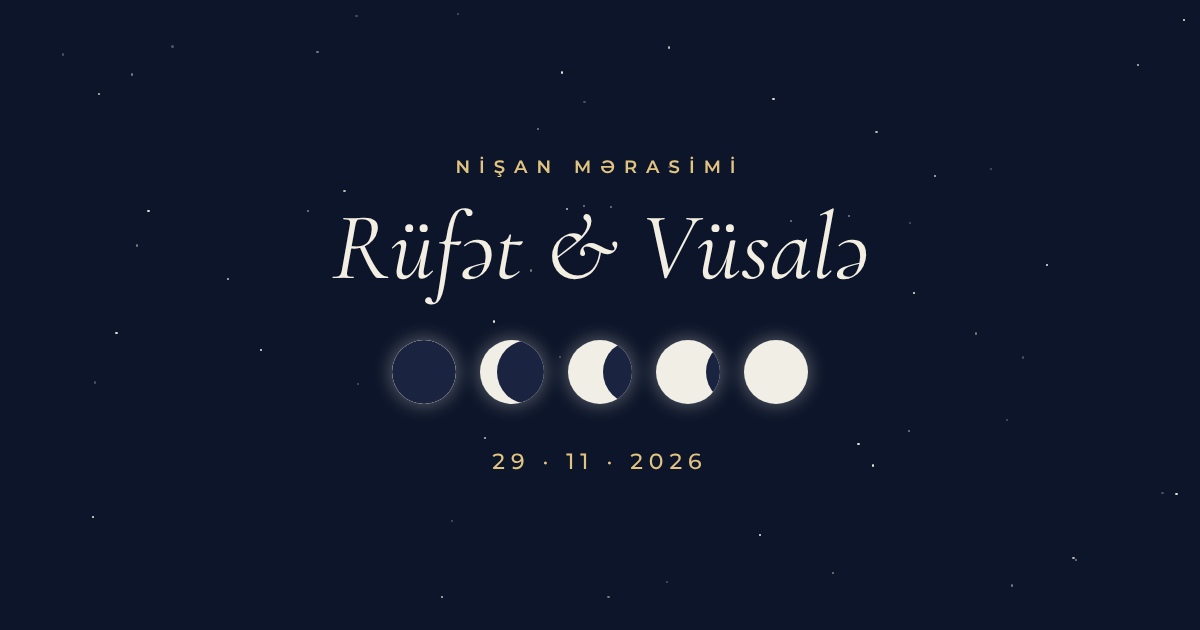
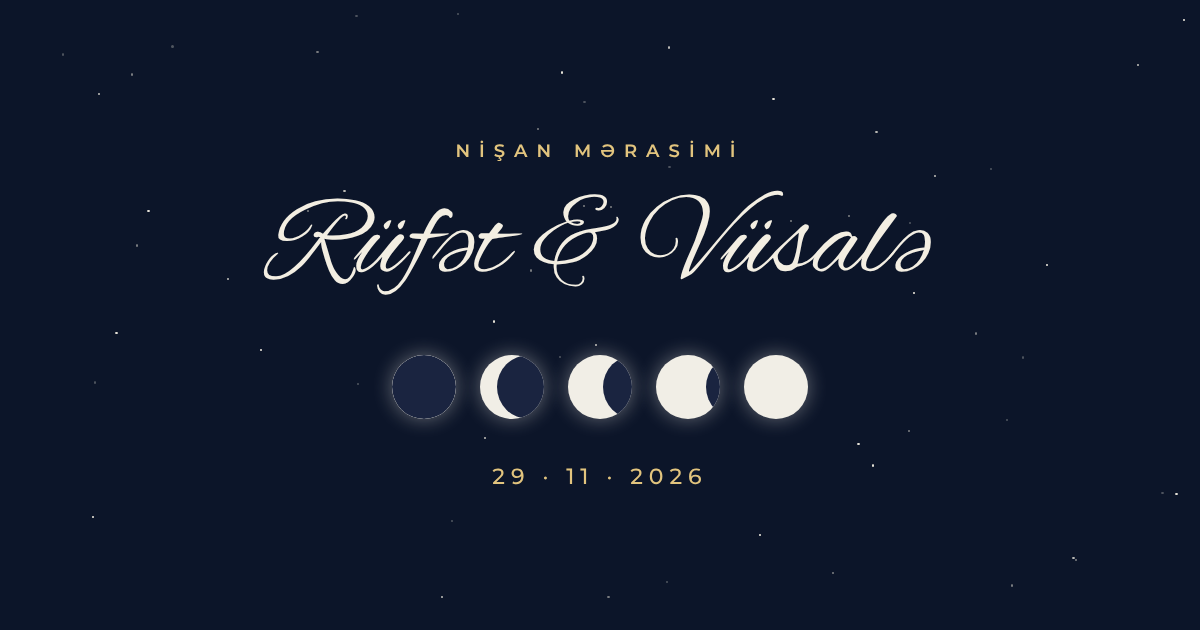
Change

diff --git a/rufat2/style.css b/rufat2/style.css
@@ -1,0 +1,59 @@
+/* VOICE: formal, tender, quiet night
+   IDEA: the moon's phases completing into a full moon
+   PICTURE: five silver moon phases on a starry navy sky
+   COLOUR and TYPE: navy #0C1529, gold #E2C47E, ivory; Cormorant + Montserrat
+   LAYOUT: one centred phone-width column; gate screen, then scrolling sections */
+:root{color-scheme:dark;--bg:#0C1529;--ink:#F3EEE2;--gold:#E2C47E;--soft:#DCD4C2;--mute:#C9C1AF;--line:rgba(226,196,126,.55)}
+*{box-sizing:border-box;min-width:0}
+html,body{margin:0;height:100%}
+body{background:var(--bg);color:var(--ink);font:18px/1.5 'Cormorant Garamond',Georgia,serif;overflow:hidden}
+.sans{font-family:Montserrat,system-ui,sans-serif}
+.sky{position:fixed;inset:0;pointer-events:none}
+.star{position:absolute;border-radius:50%;background:var(--ink);animation:tw 3s ease-in-out infinite}
+@keyframes tw{0%,100%{opacity:.2}50%{opacity:1}}
+.moon{filter:drop-shadow(0 0 14px rgba(241,238,230,.45))}
+.gate{position:fixed;inset:0;z-index:5;display:flex;flex-direction:column;align-items:center;justify-content:center;text-align:center;padding:24px;transition:opacity .4s ease,visibility 0s}
+.gate.open{opacity:0;visibility:hidden;transition:opacity 2s ease 2.6s,visibility 0s linear 4.6s}
+.eyebrow{margin:0;font-size:11px;font-weight:600;letter-spacing:5px;color:var(--gold)}
+.row{display:flex;gap:16px;margin-top:50px;transition:transform .3s ease,opacity .3s ease}
+.ph{position:relative;display:block;width:44px;height:44px;border-radius:50%;background:#F1EEE6;overflow:hidden;box-shadow:0 0 14px rgba(241,238,230,.35)}
+.sh{position:absolute;top:0;width:44px;height:44px;border-radius:50%;background:#1A2440;transition:left .3s ease}
+.gate.open .sh{left:48px!important;transition:left 1.4s ease}
+.gate.open .row{transform:scale(1.3);opacity:0;transition:transform 2s ease 1.6s,opacity 1.6s ease 2s}
+.fade{transition:opacity .3s ease}
+.gate.open .fade{opacity:0;transition:opacity 1s ease}
+.btn{margin-top:60px;min-height:48px;padding:0 30px;border:1px solid var(--gold);border-radius:24px;background:transparent;color:var(--ink);font:500 13px Montserrat,sans-serif;letter-spacing:2px;cursor:pointer;animation:gl 2.4s ease-in-out infinite}
+.btn:focus-visible,.link:focus-visible{outline:2px solid var(--ink);outline-offset:3px}
+@keyframes gl{0%,100%{box-shadow:0 0 0 0 rgba(226,196,126,0)}50%{box-shadow:0 0 0 8px rgba(226,196,126,.18)}}
+.page{position:fixed;inset:0;overflow-y:auto;display:none}
+.page.show{display:block;animation:in 2s ease 2.8s both}
+@keyframes in{from{opacity:0}to{opacity:1}}
+.page .rv{animation:up 2s ease both}
+@keyframes up{from{opacity:0;transform:translateY(30px);filter:blur(4px)}to{opacity:1;transform:none;filter:none}}
+.wrap{max-width:440px;margin:0 auto}
+section{padding:36px 28px;text-align:center}
+.hero{padding-top:56px;display:flex;flex-direction:column;align-items:center}
+h1{margin:0;font-weight:400;font-style:italic;font-size:66px;line-height:1}
+.amp{margin:2px 0;font-style:italic;font-size:30px;color:var(--gold)}
+.date{margin-top:34px;width:100%;display:grid;grid-template-columns:repeat(3,minmax(0,1fr));align-items:center;border-top:1px solid var(--line);border-bottom:1px solid var(--line);padding:18px 0}
+.date p{margin:0}
+.date .k{font-size:9px;font-weight:600;letter-spacing:3px;color:var(--gold)}
+.date .v{margin-top:8px;font-size:22px}
+.date .mid{border-left:1px solid rgba(226,196,126,.4);border-right:1px solid rgba(226,196,126,.4)}
+.date .big{margin-top:4px;font-size:52px;font-weight:500;line-height:1;color:var(--gold)}
+.date .yr{margin-top:6px;font-size:10px;letter-spacing:3px;color:var(--mute)}
+.lead{margin:30px 0 0;font-size:20px;color:var(--soft)}
+h2{margin:0;font-weight:400;font-style:italic;font-size:28px}
+.box{margin:0 20px;padding:28px 18px;border:1px solid rgba(226,196,126,.5);border-radius:16px;text-align:center}
+.cd{margin-top:18px;display:grid;grid-template-columns:repeat(4,minmax(0,1fr));gap:8px}
+.cd p{margin:0}.cd .n{font-size:38px;font-weight:500;line-height:1;color:var(--gold);font-variant-numeric:tabular-nums}
+.cd .l{margin-top:6px;font-size:10px;letter-spacing:1px;color:var(--mute)}
+.prog{margin-top:22px;display:flex;flex-direction:column;gap:14px;text-align:left}
+.prog div{display:flex;align-items:baseline;gap:16px;padding-bottom:12px;border-bottom:1px solid rgba(243,238,226,.15)}
+.prog span:first-child{width:56px;flex:none;font-size:13px;font-weight:600;color:var(--gold);white-space:nowrap}
+.prog span:last-child{font-size:21px;line-height:1.2}
+.venue{display:flex;flex-direction:column;align-items:center;gap:8px}
+.venue p{margin:0}
+.link{margin-top:12px;display:inline-flex;align-items:center;justify-content:center;min-height:44px;padding:0 26px;border-radius:22px;border:1px solid var(--gold);color:var(--gold);text-decoration:none;font-size:13px;letter-spacing:1px}
+.replay{margin-top:22px;min-height:44px;padding:0 18px;border:0;background:none;color:var(--mute);font:12px Montserrat,sans-serif;letter-spacing:1px;cursor:pointer}
+@media(prefers-reduced-motion:reduce){*,*::before,*::after{animation:none!important;transition:none!important}}

diff --git a/rufat2/index.html b/rufat2/index.html
@@ -1,0 +1,81 @@
+<!DOCTYPE html>
+<html lang="az">
+<head>
+<meta charset="utf-8">
+<meta name="viewport" content="width=device-width, initial-scale=1">
+<title>Rüfət &amp; Vüsalə — Nişan</title>
+<link rel="preconnect" href="https://fonts.googleapis.com">
+<link href="https://fonts.googleapis.com/css2?family=Cormorant+Garamond:ital,wght@0,400;0,500;0,600;1,400;1,500&family=Montserrat:wght@400;500;600&display=swap" rel="stylesheet">
+<meta name="description" content="Rüfət və Vüsalənin nişan mərasiminə dəvət — 29 noyabr 2026, Ay İşığı restoranı">
+<meta property="og:type" content="website">
+<meta property="og:url" content="https://vusala.az/rufat/">
+<meta property="og:title" content="Rüfət &amp; Vüsalə — Nişan dəvətnaməsi">
+<meta property="og:description" content="29 noyabr 2026 · Bazar · 18:00 · “Ay İşığı” restoranı, 4B zalı">
+<meta property="og:image" content="https://vusala.az/rufat/og.png">
+<meta property="og:image:width" content="1200">
+<meta property="og:image:height" content="630">
+<meta name="twitter:card" content="summary_large_image">
+<meta name="theme-color" content="#0C1529">
+<link rel="stylesheet" href="style.css">
+</head>
+<body>
+<div class="sky" id="sky" aria-hidden="true"></div>
+
+<main class="page" id="page">
+ <div class="wrap">
+  <section class="hero rv" style="animation-delay:3s">
+    <svg role="img" aria-label="Bədirlənmiş ay" width="70" height="70" viewBox="0 0 100 100" class="moon"><circle cx="50" cy="50" r="48" fill="#F1EEE6"/><circle cx="34" cy="38" r="9" fill="#E3DED2"/><circle cx="62" cy="30" r="5" fill="#E3DED2"/><circle cx="64" cy="62" r="11" fill="#E3DED2"/><circle cx="38" cy="70" r="5" fill="#E3DED2"/></svg>
+    <p class="eyebrow sans" style="margin-top:26px">NİŞAN MƏRASİMİ</p>
+    <h1 style="margin-top:24px">Rüfət</h1>
+    <p class="amp">&amp;</p>
+    <h1>Vüsalə</h1>
+    <div class="date sans">
+      <div><p class="k">GÜN</p><p class="v" style="font-family:'Montserrat',serif">Bazar</p></div>
+      <div class="mid"><p class="k">NOYABR</p><p class="big" style="font-family:'Cormorant Garamond',serif">29</p><p class="yr">2026</p></div>
+      <div><p class="k">SAAT</p><p class="v" style="font-family:'Montserrat',serif">18:00</p></div>
+    </div>
+    <p class="lead">Həyatımızın bu özəl və unudulmaz günündə sevincimizi bölüşmək, xoşbəxtliyimizə şərik olmaq üçün Sizi nişan mərasimimizdə aramızda görməkdən məmnun olarıq.</p>
+  </section>
+
+  <div class="box rv" style="animation-delay:3.6s">
+    <h2>Nişanımıza qalan müddət</h2>
+    <div class="cd sans">
+      <div><p class="n" id="cd-d">0</p><p class="l">GÜN</p></div>
+      <div><p class="n" id="cd-h">00</p><p class="l">SAAT</p></div>
+      <div><p class="n" id="cd-m">00</p><p class="l">DƏQİQƏ</p></div>
+      <div><p class="n" id="cd-s">00</p><p class="l">SANİYƏ</p></div>
+    </div>
+  </div>
+
+  <section class="rv" style="animation-delay:4.2s;padding-top:44px">
+    <h2>Günün proqramı</h2>
+    <div class="prog" id="prog"></div>
+  </section>
+
+  <section class="venue rv" style="animation-delay:4.6s">
+    <p class="eyebrow sans">MƏKAN</p>
+    <p style="font-style:italic;font-size:32px">“Ay İşığı” restoranı</p>
+    <p class="sans" style="font-size:13px;font-weight:600;letter-spacing:2px">4B ZALI</p>
+    <p class="sans" style="font-size:13px;color:var(--mute)">Mikayıl Əliyev 51, Nizami</p>
+    <a class="link sans" href="https://www.google.com/maps/search/?api=1&query=Mikay%C4%B1l+%C6%8Fliyev+51%2C+Bak%C4%B1" target="_blank" rel="noopener">Xəritədə aç</a>
+  </section>
+
+  <section class="rv" style="animation-delay:5s;padding-bottom:60px;display:flex;flex-direction:column;align-items:center">
+    <svg role="img" aria-label="Bədirlənmiş ay" width="40" height="40" viewBox="0 0 100 100" class="moon"><circle cx="50" cy="50" r="48" fill="#F1EEE6"/><circle cx="34" cy="38" r="9" fill="#E3DED2"/><circle cx="62" cy="30" r="5" fill="#E3DED2"/><circle cx="64" cy="62" r="11" fill="#E3DED2"/><circle cx="38" cy="70" r="5" fill="#E3DED2"/></svg>
+    <p style="margin:16px 0 0;font-size:20px;color:var(--soft)">Sizi görməyə şad olarıq</p>
+    <p style="margin:8px 0 0;font-style:italic;font-size:34px;color:var(--gold)">Rüfət &amp; Vüsalə</p>
+    <button class="replay" id="replay" type="button">↺ Yenidən bax</button>
+  </section>
+ </div>
+</main>
+
+<div class="gate" id="gate">
+  <p class="eyebrow sans fade">NİŞAN MƏRASİMİ</p>
+  <p class="fade" style="margin:14px 0 0;font-style:italic;font-size:42px">Rüfət &amp; Vüsalə</p>
+  <div class="row" aria-hidden="true" id="row"></div>
+  <button class="btn fade" id="open" type="button">DƏVƏTNAMƏNİ AÇ</button>
+</div>
+
+<script src="script.js"></script>
+</body>
+</html>

diff --git a/rufat/index.html b/rufat/index.html
@@ -5,7 +5,7 @@
 <meta name="viewport" content="width=device-width, initial-scale=1">
 <title>Rüfət &amp; Vüsalə — Nişan</title>
 <link rel="preconnect" href="https://fonts.googleapis.com">
-<link href="https://fonts.googleapis.com/css2?family=Cormorant+Garamond:ital,wght@0,400;0,500;0,600;1,400;1,500&family=Montserrat:wght@400;500;600&display=swap" rel="stylesheet">
+<link href="https://fonts.googleapis.com/css2?family=Alex+Brush&family=Cormorant+Garamond:ital,wght@0,400;0,500;0,600;1,400;1,500&family=Montserrat:wght@400;500;600&display=swap" rel="stylesheet">
 <meta name="description" content="Rüfət və Vüsalənin nişan mərasiminə dəvət — 29 noyabr 2026, Ay İşığı restoranı">
 <meta property="og:type" content="website">
 <meta property="og:url" content="https://vusala.az/rufat/">
@@ -26,7 +26,7 @@
   <section class="hero rv" style="animation-delay:3s">
     <svg role="img" aria-label="Bədirlənmiş ay" width="70" height="70" viewBox="0 0 100 100" class="moon"><circle cx="50" cy="50" r="48" fill="#F1EEE6"/><circle cx="34" cy="38" r="9" fill="#E3DED2"/><circle cx="62" cy="30" r="5" fill="#E3DED2"/><circle cx="64" cy="62" r="11" fill="#E3DED2"/><circle cx="38" cy="70" r="5" fill="#E3DED2"/></svg>
     <p class="eyebrow sans" style="margin-top:26px">NİŞAN MƏRASİMİ</p>
-    <h1 style="margin-top:24px">Rüfət</h1>
+    <h1 style="margin-top:22px">Rüfət</h1>
     <p class="amp">&amp;</p>
     <h1>Vüsalə</h1>
     <div class="date sans">
@@ -63,7 +63,7 @@
   <section class="rv" style="animation-delay:5s;padding-bottom:60px;display:flex;flex-direction:column;align-items:center">
     <svg role="img" aria-label="Bədirlənmiş ay" width="40" height="40" viewBox="0 0 100 100" class="moon"><circle cx="50" cy="50" r="48" fill="#F1EEE6"/><circle cx="34" cy="38" r="9" fill="#E3DED2"/><circle cx="62" cy="30" r="5" fill="#E3DED2"/><circle cx="64" cy="62" r="11" fill="#E3DED2"/><circle cx="38" cy="70" r="5" fill="#E3DED2"/></svg>
     <p style="margin:16px 0 0;font-size:20px;color:var(--soft)">Sizi görməyə şad olarıq</p>
-    <p style="margin:8px 0 0;font-style:italic;font-size:34px;color:var(--gold)">Rüfət &amp; Vüsalə</p>
+    <p style="margin:8px 0 0;font-family:'Alex Brush',cursive;font-size:46px;color:var(--gold)">Rüfət &amp; Vüsalə</p>
     <button class="replay" id="replay" type="button">↺ Yenidən bax</button>
   </section>
  </div>
@@ -71,7 +71,7 @@
 
 <div class="gate" id="gate">
   <p class="eyebrow sans fade">NİŞAN MƏRASİMİ</p>
-  <p class="fade" style="margin:14px 0 0;font-style:italic;font-size:42px">Rüfət &amp; Vüsalə</p>
+  <p class="fade" style="margin:14px 0 0;font-family:'Alex Brush',cursive;font-size:54px">Rüfət &amp; Vüsalə</p>
   <div class="row" aria-hidden="true" id="row"></div>
   <button class="btn fade" id="open" type="button">DƏVƏTNAMƏNİ AÇ</button>
 </div>

diff --git a/rufat2/script.js b/rufat2/script.js
@@ -1,0 +1,28 @@
+(function () {
+  const stars=[[10,7,2,0],[31,17,3,.8],[77,9,2,1.4],[90,24,3,.3],[15,36,2,2],[85,45,2,1.1],[8,62,3,.5],[54,5,2,2.4],[92,71,2,1.7],[23,85,3,.9],[72,92,2,2.2],[46,54,2,1.3],[64,30,2,.6],[38,76,2,1.9]];
+  document.getElementById('sky').innerHTML=stars.map(([x,y,s,d])=>`<span class="star" style="left:${x}%;top:${y}%;width:${s}px;height:${s}px;animation-delay:${d}s"></span>`).join('');
+  document.getElementById('row').innerHTML=[0,12,24,34,46].map((o,i)=>`<span class="ph"><span class="sh" style="left:${o}px;transition-delay:${(0.24*i).toFixed(2)}s"></span></span>`).join('');
+  const program=[['18:00','Qonaqların qarşılanması'],['18:30','Nişan və üzük taxılması'],['19:30','Şam yeməyi'],['20:00','Rəqs']];
+  document.getElementById('prog').innerHTML=program.map(([t,n])=>`<div><span class="sans">${t}</span><span>${n}</span></div>`).join('');
+  const target=Date.parse('2026-11-29T18:00:00+04:00');
+  const pad=n=>String(n).padStart(2,'0');
+  const tick=()=>{
+    let diff=Math.max(0,target-Date.now());
+    const d=Math.floor(diff/86400000);diff-=d*86400000;
+    const h=Math.floor(diff/3600000);diff-=h*3600000;
+    const m=Math.floor(diff/60000);diff-=m*60000;
+    const s=Math.floor(diff/1000);
+    document.getElementById('cd-d').textContent=d;
+    document.getElementById('cd-h').textContent=pad(h);
+    document.getElementById('cd-m').textContent=pad(m);
+    document.getElementById('cd-s').textContent=pad(s);
+  };
+  tick();setInterval(tick,1000);
+  const gate=document.getElementById('gate'),page=document.getElementById('page');
+  document.getElementById('open').addEventListener('click',()=>{
+    page.scrollTop=0;page.classList.add('show');gate.classList.add('open');
+  });
+  document.getElementById('replay').addEventListener('click',()=>{
+    page.classList.remove('show');page.scrollTop=0;gate.classList.remove('open');
+  });
+})();

diff --git a/rufat/style.css b/rufat/style.css
@@ -33,8 +33,8 @@ body{background:var(--bg);color:var(--ink);font:18px/1.5 'Cormorant Garamond',Ge
 .wrap{max-width:440px;margin:0 auto}
 section{padding:36px 28px;text-align:center}
 .hero{padding-top:56px;display:flex;flex-direction:column;align-items:center}
-h1{margin:0;font-weight:400;font-style:italic;font-size:66px;line-height:1}
-.amp{margin:2px 0;font-style:italic;font-size:30px;color:var(--gold)}
+h1{margin:0;font-family:'Alex Brush',cursive;font-weight:400;font-size:74px;line-height:1.1}
+.amp{margin:0;font-family:'Alex Brush',cursive;font-size:36px;line-height:1;color:var(--gold)}
 .date{margin-top:34px;width:100%;display:grid;grid-template-columns:repeat(3,minmax(0,1fr));align-items:center;border-top:1px solid var(--line);border-bottom:1px solid var(--line);padding:18px 0}
 .date p{margin:0}
 .date .k{font-size:9px;font-weight:600;letter-spacing:3px;color:var(--gold)}
